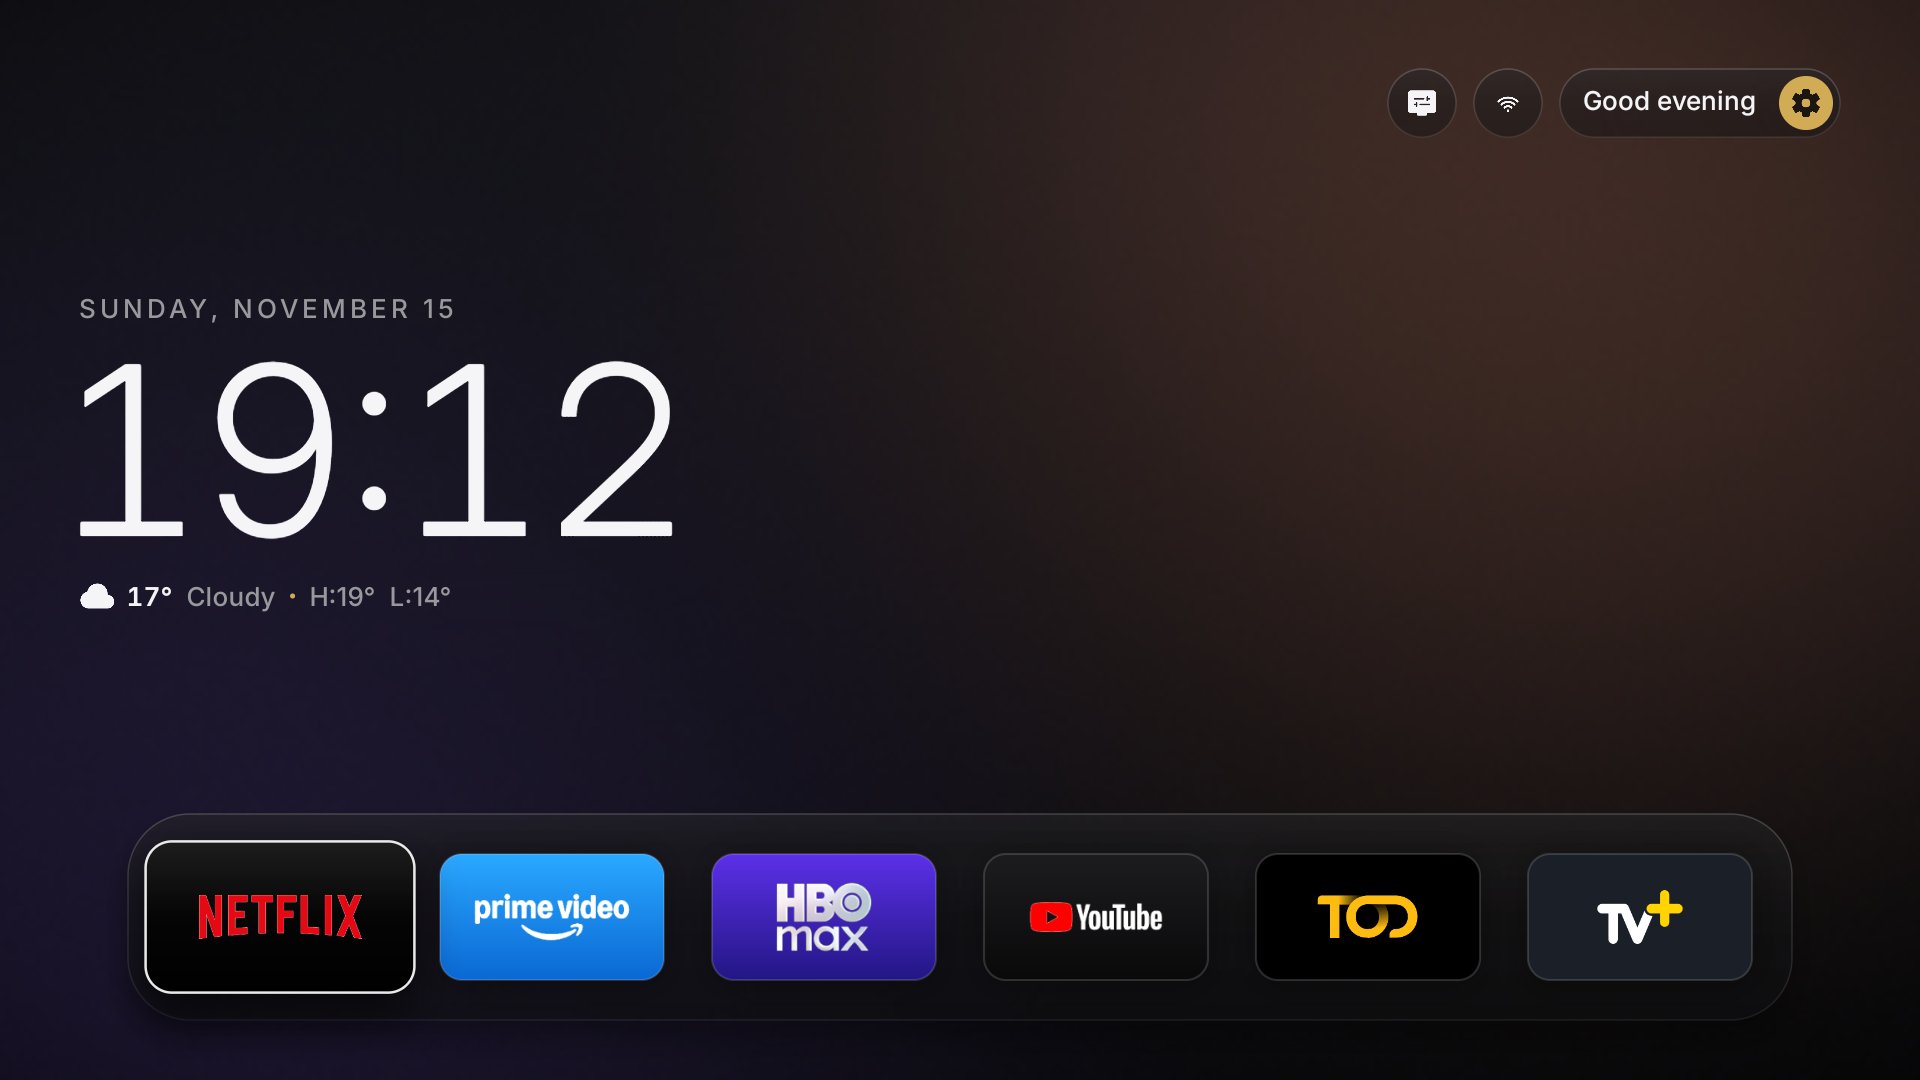
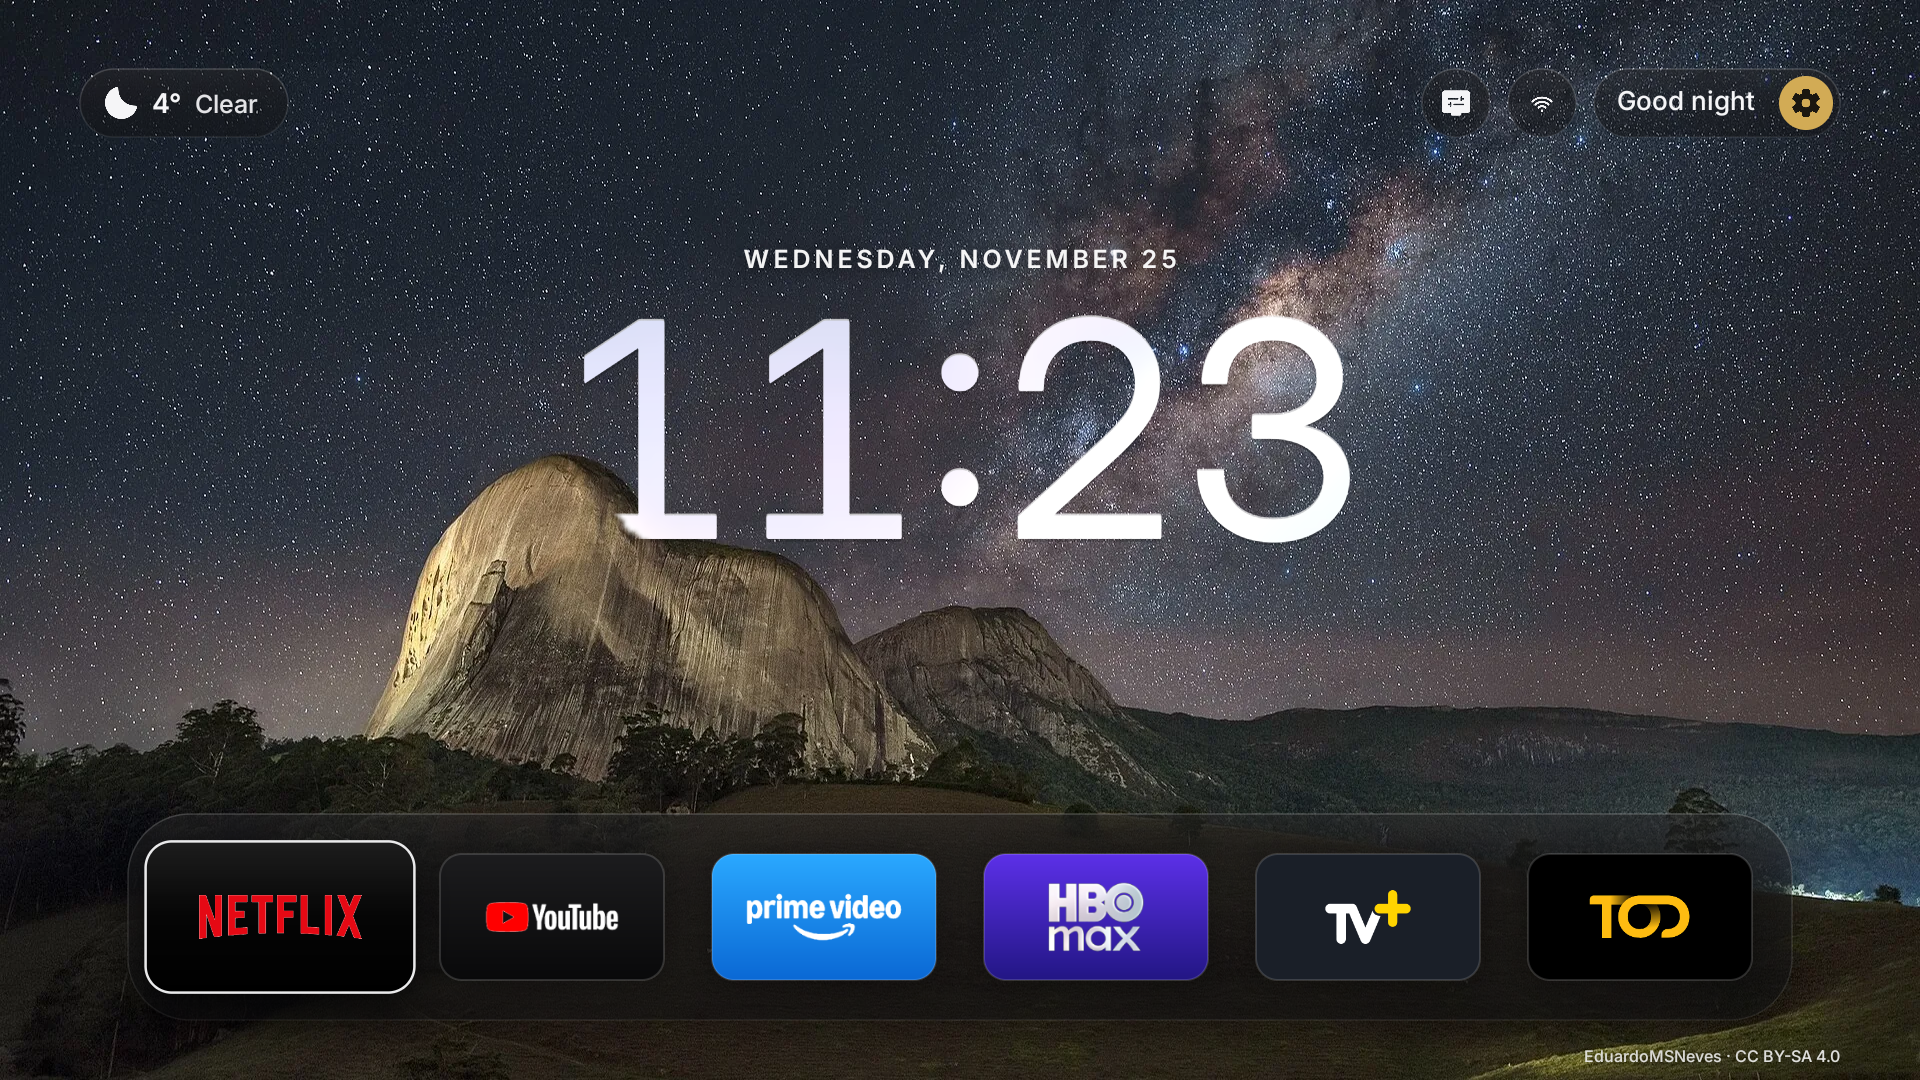
README: v1.4.2 screenshots of the background photo and new settings
New Mi Stick captures (English interface) of the clock layout with its
background photo, the quick panel over it, Settings -> Home screen and the
background photo picker. The city in the weather pill is removed; the media
notes and RELEASE.md say so.

diff --git a/tools/audit_branding.py b/tools/audit_branding.py
@@ -54,7 +54,7 @@ def check(root=ROOT):
         source_notice = (root / "docs/licenses/NOTICE.md").read_text(encoding="utf-8")
         packaged_notice = source_notice.replace("(../../LICENSE)", "(LICENSE)").replace("(LICENSE-launcher-MIT.txt)", "(third_party/LICENSE-launcher-MIT.txt)")
         assert packaged_notice == (root / "app/assets/licenses/NOTICE.md").read_text(encoding="utf-8")
-        assert {p.name for p in (root / "docs/media").iterdir()} == {"README.md", "remote.svg", "hero.svg", "home-en.png", "recommendations-en.png", "all-apps-en.png", "setup-en.png", "settings-en.png", "quick-settings-en.png", "shortcuts-en.png", "screensaver-en.png", "light-en.png"}
+        assert {p.name for p in (root / "docs/media").iterdir()} == {"README.md", "remote.svg", "hero.svg", "home-en.png", "recommendations-en.png", "all-apps-en.png", "setup-en.png", "settings-en.png", "quick-settings-en.png", "shortcuts-en.png", "screensaver-en.png", "light-en.png", "background-en.png"}
     except (OSError, KeyError, AssertionError, ET.ParseError) as error:
         issues.append("Identity, English-media or required-licence contract failed: " + str(error))
     return issues

diff --git a/docs/media/README.md b/docs/media/README.md
@@ -1,22 +1,25 @@
 # Preview media
 
-`hero.svg` and `remote.svg` are illustrations. Every PNG is a genuine 1920 × 1080 screenshot of PureTV v1.4 on a
-Xiaomi Mi Stick (MiTV-AESP0), Android TV 9, with the interface set to English for the capture.
+`hero.svg` and `remote.svg` are illustrations. Every PNG is a genuine 1920 × 1080 screenshot of PureTV on a
+Xiaomi Mi Stick (MiTV-AESP0), Android TV 9, with the interface set to English for the capture: `home-en.png`,
+`settings-en.png`, `background-en.png` and `quick-settings-en.png` show v1.4.2, the others v1.4.
 
 | File | What it shows |
 | --- | --- |
 | `recommendations-en.png` | Recent + recommended layout, Recommended tab, focus on the first card (see below). |
-| `home-en.png` | The clock layout: date, clock, today's weather and the app shelf. |
+| `home-en.png` | The clock layout with the Automatic background photo at night: weather pill, date, glass clock, app shelf and the photo's credit. |
 | `all-apps-en.png` | All Apps, with the home screen's apps, the other apps and a hidden app (dimmed). |
 | `setup-en.png` | The setup guide's home screen layout step, with its preview. |
-| `settings-en.png` | Settings → Home screen. |
-| `quick-settings-en.png` | The quick panel over the clock layout. |
+| `settings-en.png` | Settings → Home screen, as it opens: categories, the settings and the detail pane. |
+| `background-en.png` | Settings → Home screen → Background photo: the preview and the photos to choose from. |
+| `quick-settings-en.png` | The quick panel over the clock layout with its background photo. |
 | `shortcuts-en.png` | One press down: the Shortcuts row and Other apps. |
 | `screensaver-en.png` | The screensaver's clock and weather on black. |
 | `light-en.png` | The home screen in the light theme. |
 
-The only edit: the weather line's city name is painted over with the surrounding background in `home-en.png`,
-`quick-settings-en.png` and `light-en.png`, so the owner's location is not published. No viewing history, account, network address or
+The only edit hides the city name, so the owner's location is not published: in `light-en.png` the weather line's city
+is painted over with the surrounding background; in `home-en.png` and `quick-settings-en.png` the weather pill ends
+after the conditions and the sky next to it is continued from the sky just below. No viewing history, account, network address or
 device identifier appears. The language, theme and layout changed for the captures were set back afterwards.
 `recommendations-en.png` was taken with a screenshot-only build (never released) whose Recommended row holds a fixed,
 illustrative selection of well-known films, with their TMDB backdrops; the app named under each title is only an

diff --git a/README.md b/README.md
@@ -13,7 +13,7 @@
 <br>
 
 <p align="center">
-  <a href="docs/media/home-en.png"><img src="docs/media/home-en.png" width="100%" alt="PureTV clock layout: a large clock, today's weather and the app shelf"></a>
+  <a href="docs/media/home-en.png"><img src="docs/media/home-en.png" width="100%" alt="PureTV clock layout: a large glass clock over a night landscape, the weather and the app shelf"></a>
 </p>
 
 PureTV replaces the busy, ad-filled home screen of Android TVs and streaming sticks with a quiet one: your apps, the
@@ -81,8 +81,8 @@ quick on a 1 GB stick, and every screen is made for the remote.
   </tr>
   <tr>
     <td width="50%" align="center" valign="top">
-      <a href="docs/media/settings-en.png"><img src="docs/media/settings-en.png" width="100%" alt="Settings: Home screen category"></a>
-      <br><sub><b>Settings</b> — eight clear categories</sub>
+      <a href="docs/media/settings-en.png"><img src="docs/media/settings-en.png" width="100%" alt="Settings: the categories, the Home screen settings and an explanation of the selected one"></a>
+      <br><sub><b>Settings</b> — every setting explained beside it</sub>
     </td>
     <td width="50%" align="center" valign="top">
       <a href="docs/media/quick-settings-en.png"><img src="docs/media/quick-settings-en.png" width="100%" alt="Quick settings with AirPlay, RAM and the sleep timer"></a>
@@ -102,11 +102,16 @@ quick on a 1 GB stick, and every screen is made for the remote.
 </table>
 
 <p align="center">
+  <a href="docs/media/background-en.png"><img src="docs/media/background-en.png" width="100%" alt="Settings choosing the background photo: a preview of the clock screen and the photos to choose from"></a>
+  <br><sub><b>Background photo</b> — a new landscape every day and at night, or the classic colours</sub>
+</p>
+
+<p align="center">
   <a href="docs/media/light-en.png"><img src="docs/media/light-en.png" width="100%" alt="The home screen in the light theme"></a>
   <br><sub><b>Light theme</b> — or Automatic, by sunrise and sunset</sub>
 </p>
 
-<sub>Real screenshots of PureTV v1.4 on a Xiaomi Mi Stick (Android TV 9), English interface. Open any image for full size. [About these captures](docs/media/README.md).</sub>
+<sub>Real screenshots of PureTV v1.4 and v1.4.2 on a Xiaomi Mi Stick (Android TV 9), English interface. Open any image for full size. [About these captures](docs/media/README.md).</sub>
 
 ## Install
 

diff --git a/docs/README.tr.md b/docs/README.tr.md
@@ -42,11 +42,11 @@ kontrolü LG/Samsung sürümlerinde yoktur.
 
 ## Önizleme
 
-Görseller, PureTV v1.4'ün Mi Stick'te (Android TV 9) alınmış gerçek ekran görüntüleridir; arayüz dili İngilizcedir.
+Görseller, PureTV v1.4 ve v1.4.2'nin Mi Stick'te (Android TV 9) alınmış gerçek ekran görüntüleridir; arayüz dili İngilizcedir.
 
 ![Son izlenenler ve öneriler ana ekranı](media/recommendations-en.png)
 
-![Saatli ana ekran](media/home-en.png)
+![Saatli ana ekran: gece manzarası önünde cam saat](media/home-en.png)
 
 | Tüm uygulamalar | Kurulum rehberi |
 | --- | --- |
@@ -59,6 +59,10 @@ Görseller, PureTV v1.4'ün Mi Stick'te (Android TV 9) alınmış gerçek ekran 
 | Kısayollar ve diğer uygulamalar | Ekran koruyucu |
 | --- | --- |
 | ![Kısayollar](media/shortcuts-en.png) | ![Ekran koruyucu](media/screensaver-en.png) |
+
+Saat ekranında arkada her gün ve gün batımından sonra değişen bir manzara fotoğrafı olur; isterseniz beş fotoğraftan birini ya da klasik renkleri seçebilirsiniz.
+
+![Arka plan fotoğrafı seçimi](media/background-en.png)
 
 PureTV'nin açık ve koyu teması var; **Otomatik** seçilirse gün doğumu ve batımına göre değişir.
 

diff --git a/docs/RELEASE.md b/docs/RELEASE.md
@@ -10,7 +10,7 @@ Historical commits and third-party protocol/version names are retained.
 - Generated packages, signing/ADB keys, personal configuration, raw device logs and working folders stay outside the source distribution.
 - Generic builds contain no TMDB or Watchmode credential. The launcher's own code contains no native receiver engine or runtime libraries.
 - Platform icons have an editable original SVG; their checked-in PNG exports need no extra build dependency.
-- Documentation images are actual unedited English-interface Mi Stick captures. Recommendation art comes from its source app; private viewing history is omitted.
+- Documentation images are actual English-interface Mi Stick captures; the only edit hides the city name ([media notes](media/README.md)). Recommendation art comes from its source app; private viewing history is omitted.
 - Main documentation is English; the Turkish guide is a separate file.
 
 ## Verification
